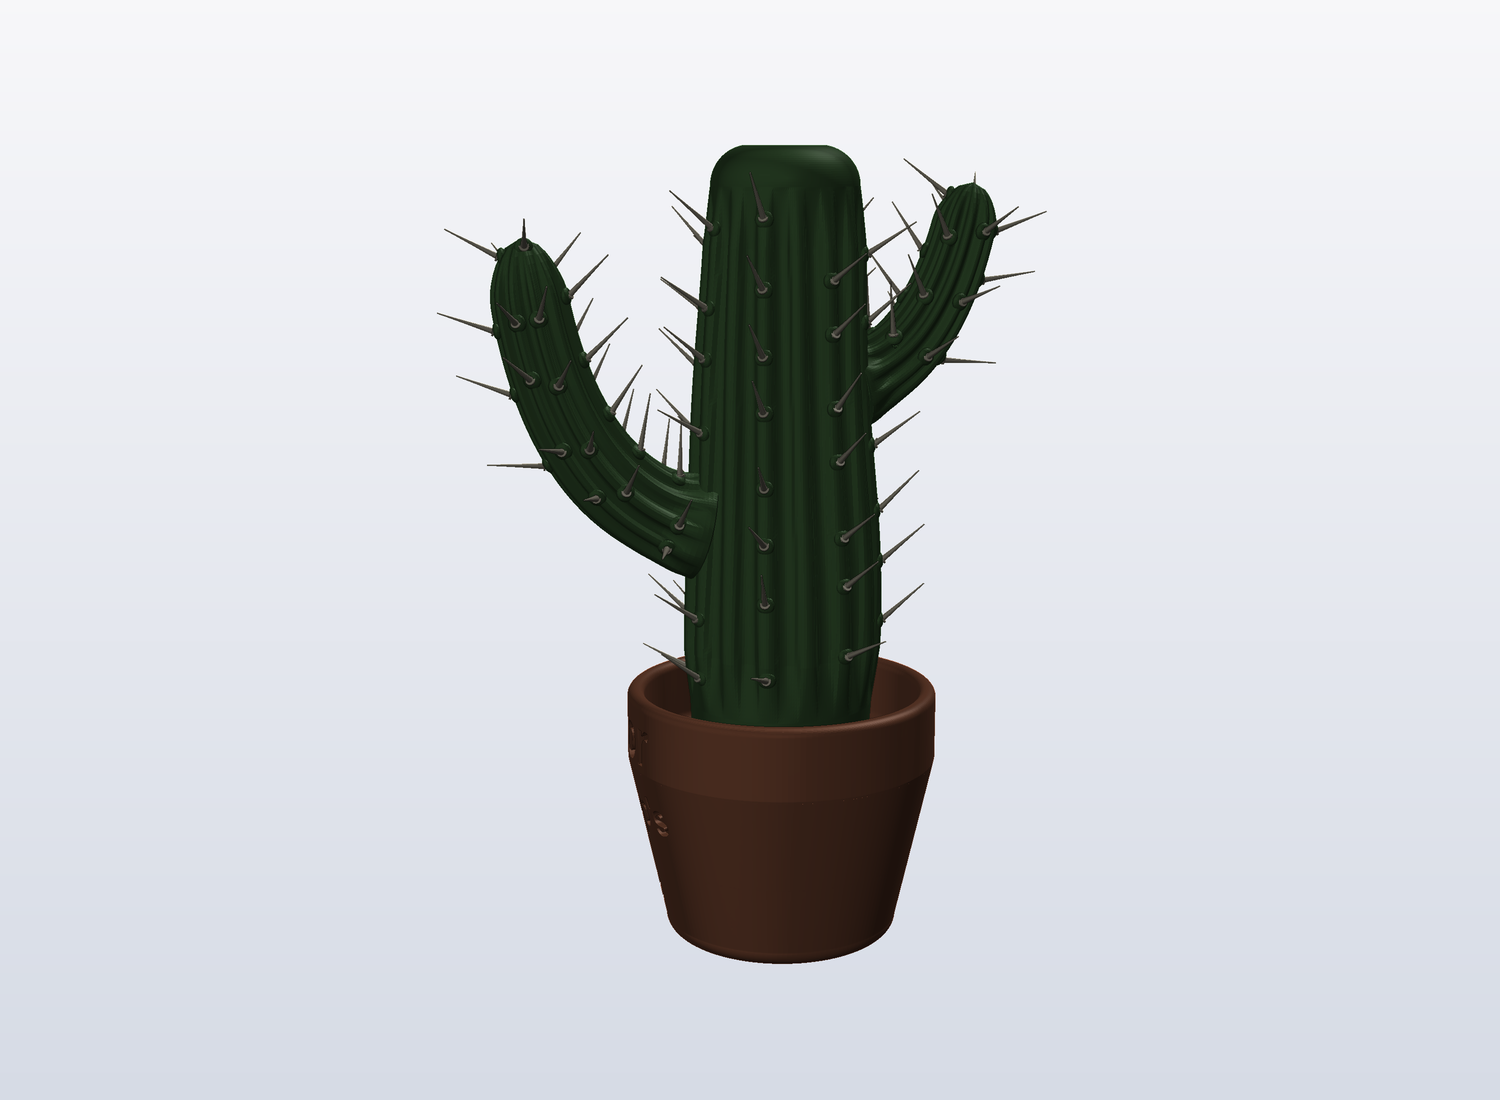
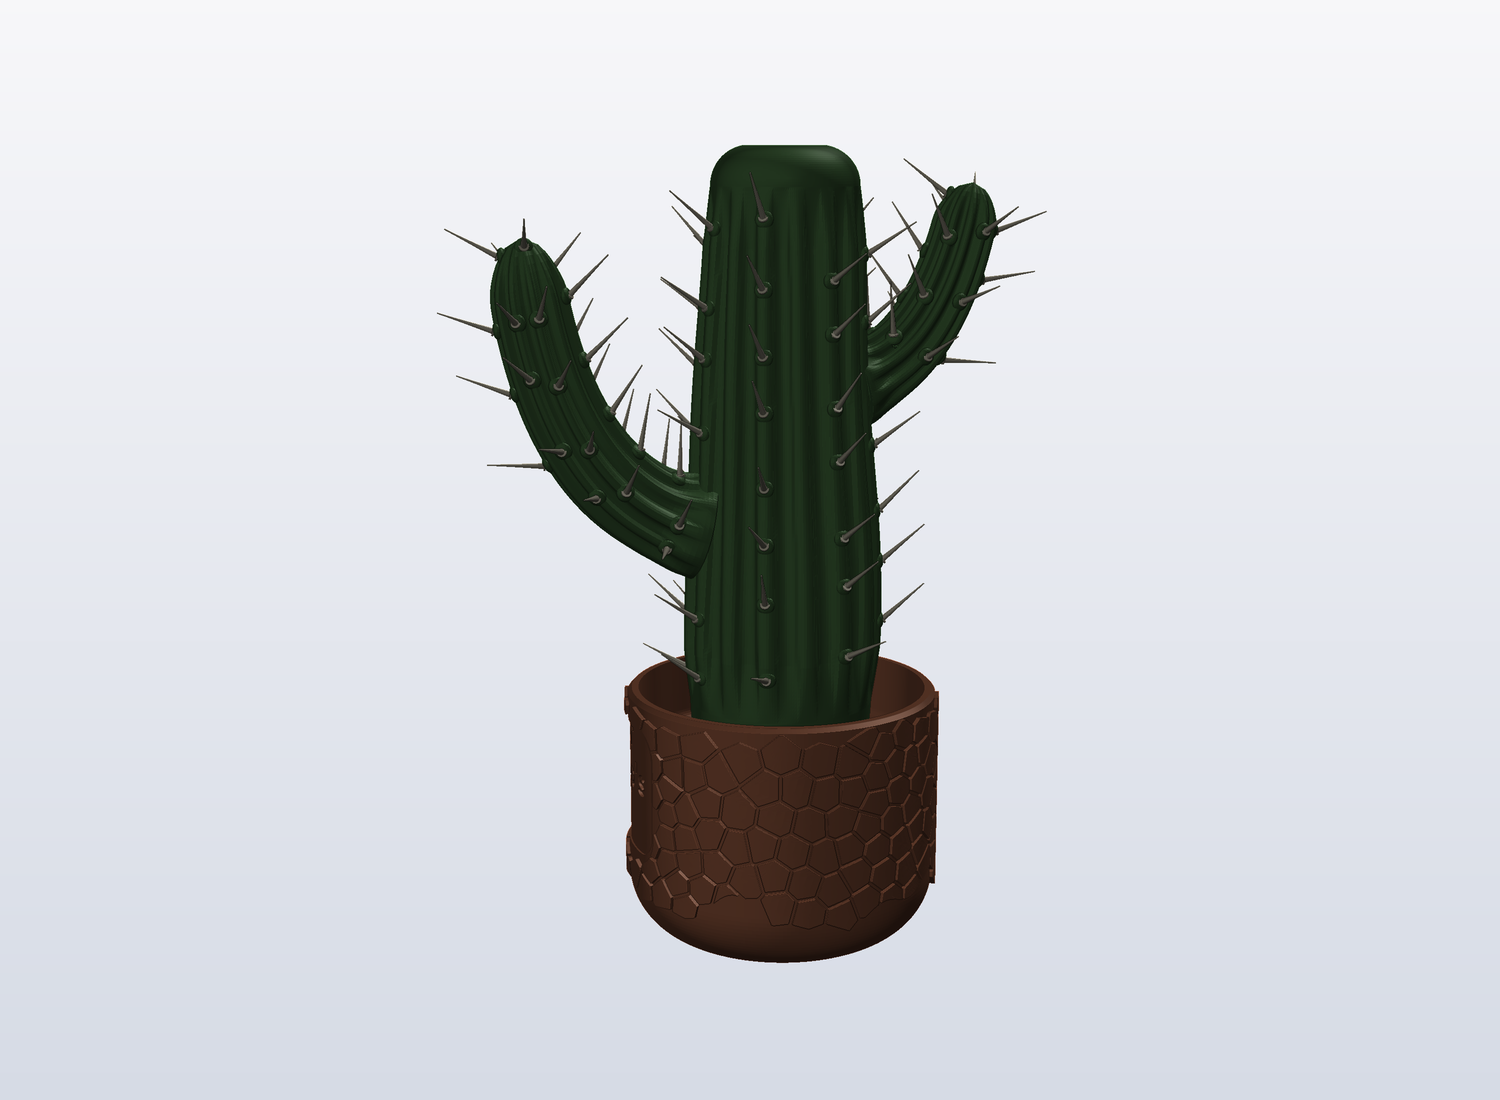
cactus-pot: confirm the fit against the new pebble pot, and sweep the well
The pebble pot keeps all four interface numbers -- Ø32.00 x 8.00 socket,
floor 21.00 below the rim -- so the cactus drops into it with nothing
changed.

Its inner wall is why build.py no longer measures that wall with one
ray. A pot with texture on its inside is tightest somewhere a single ray
will miss, so the well is now swept at 72 bearings on every millimetre
of its height and the worst radius is what gets reported and checked.
The pebble pot comes out at r=41.43, roomier than the old pot's 39.70.

POT_INNER_R stays at the tighter of the two, since the check it feeds
only cares about the worst case, and a mismatch is now only flagged when
a pot is TIGHTER than it -- a roomier one is free clearance, not a
reason to refuse to build.

Claude-Session: https://claude.ai/code/session_011Z9oi4rSN3qyTgCeM5HL1z

diff --git a/cactus-pot/build.py b/cactus-pot/build.py
@@ -69,14 +69,22 @@ def measure_pot(path):
         multiple_hits=True)
     bore = 2 * float(np.sort(np.linalg.norm(hits[:, :2], axis=1))[0])
 
-    # the cavity's wall, measured just above the floor -- NOT at the socket's
-    # height, where the pot is solid and the first thing a ray meets on its
-    # way out is the outside of the pot
-    hits, _, _ = ray.intersects_location(
-        np.array([[0.0, 0.0, floor + 2.0]]), np.array([[1.0, 0.0, 0.0]]),
-        multiple_hits=True)
-    r = np.sort(np.linalg.norm(hits[:, :2], axis=1))
-    inner = float(r[0]) if len(r) else None
+    # The cavity's wall -- NOT measured at the socket's height, where the pot
+    # is solid and the first thing a ray meets on its way out is the outside
+    # of the pot. And not from one ray either: a pot with any texture on its
+    # inside is tightest somewhere a single ray will miss, so this sweeps the
+    # whole well and keeps the worst radius it finds.
+    inner = None
+    ths = np.linspace(0.0, 2 * np.pi, 72, endpoint=False)
+    fan = np.column_stack([np.cos(ths), np.sin(ths), np.zeros_like(ths)])
+    for z in np.arange(floor + 1.0, rim - 0.5, 1.0):
+        o = np.column_stack([np.zeros_like(ths), np.zeros_like(ths),
+                             np.full_like(ths, z)])
+        hits, idx, _ = ray.intersects_location(o, fan, multiple_hits=True)
+        for i in range(len(ths)):
+            r = np.linalg.norm(hits[idx == i][:, :2], axis=1)
+            if len(r) and (inner is None or float(r.min()) < inner):
+                inner = float(r.min())
 
     print(f"pot                {np.round(hi - lo, 2).tolist()} mm, rim at "
           f"z={rim:.2f}")
@@ -87,7 +95,7 @@ def measure_pot(path):
           f"(params.POT_BORE_D = {P.POT_BORE_D}, "
           f"POT_SOCKET_DEPTH = {P.POT_SOCKET_DEPTH})")
     if inner:
-        print(f"inner wall         r={inner:.2f}   "
+        print(f"inner wall         r={inner:.2f} at its tightest   "
               f"(params.POT_INNER_R = {P.POT_INNER_R})")
 
     bad = []
@@ -97,6 +105,9 @@ def measure_pot(path):
         bad.append("POT_SOCKET_DEPTH")
     if abs((rim - floor) - P.POT_FLOOR_TO_RIM) > P.POT_TOL:
         bad.append("POT_FLOOR_TO_RIM")
+    if inner is not None and inner < P.POT_INNER_R - P.POT_TOL:
+        # only a tighter wall is a problem; a roomier one is free clearance
+        bad.append("POT_INNER_R")
     if bad:
         print("  MISMATCH -- update " + ", ".join(bad) + " before building")
     else:

diff --git a/cactus-pot/params.py b/cactus-pot/params.py
@@ -34,7 +34,11 @@ BED = (325.0, 320.0)    # single-nozzle build area; the plate check uses it
 POT_BORE_D = 32.00      # the blind socket in the pot's inner floor
 POT_SOCKET_DEPTH = 8.00 # how deep that socket goes
 POT_FLOOR_TO_RIM = 21.0 # the cactus's first 21 mm are down inside the pot
-POT_INNER_R = 39.7      # the pot's inner wall just above its floor
+POT_INNER_R = 39.7      # the pot's inner wall, at its tightest, above the
+                        # floor. Deliberately the TIGHTER of the two pots
+                        # measured (the pebble pot is 41.4): the check this
+                        # feeds only cares about the worst case, and a
+                        # roomier pot is free clearance.
 POT_TOL = 0.50          # how far the measured pot may differ before the build stops
 
 SPIGOT_CLEAR = 0.35     # the spigot is this much under the bore, per side:

diff --git a/cactus-pot/direction.md b/cactus-pot/direction.md
@@ -88,8 +88,14 @@ against `params.py`, and `build.py --pot` fails loudly if the pot changes.
 
 ### The interface, as a contract
 
-A new pot is being designed, so these numbers are what the cactus needs from
-whatever pot it ends up in rather than facts about one mesh:
+These numbers are what the cactus needs from whatever pot it ends up in rather
+than facts about one mesh. The pebble pot, drawn after this was written, keeps
+all four, so the cactus fits it unchanged:
+
+    python3 build.py --pot <pebble-pot.stl>
+    socket Ø32.00 x 8.00 deep, floor 21.00 below a rim at z=76.00,
+    inner wall r=41.43 at its tightest -- params agree with this pot
+
 
 - **A blind socket in the middle of the inner floor**, concentric with the
   pot's axis. Blind matters: a drainage hole straight through the floor is a
